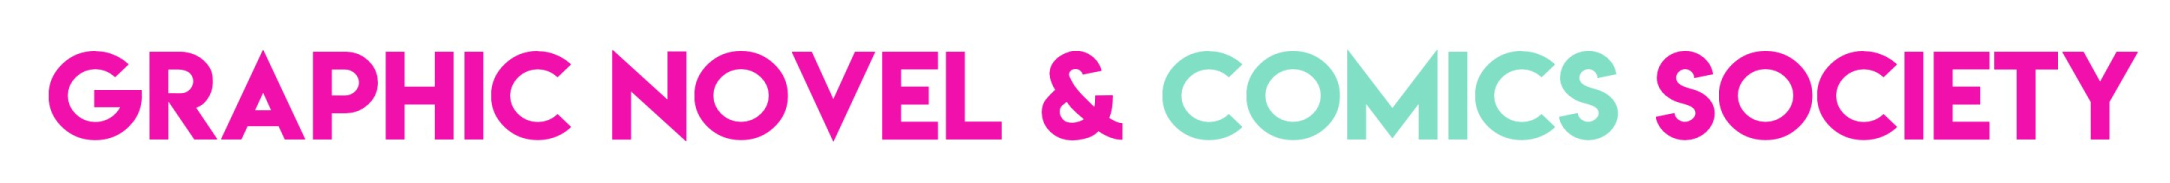
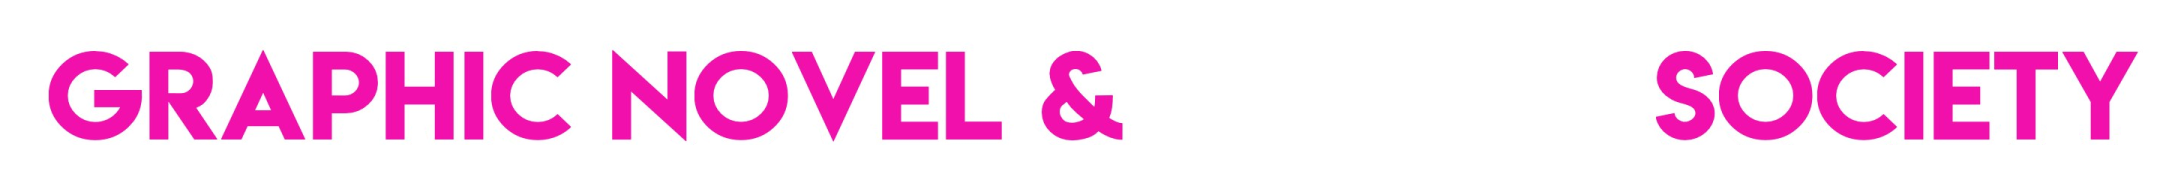
deleted unnecessary files and cleaned up text

Changed region(s): [[0.5249, 0.2732, 0.7719, 0.765]]

diff --git a/index.html b/index.html
@@ -3,12 +3,11 @@
 <head>
     <meta charset="UTF-8">
     <meta charset="UTF-8">
-    <title>UCL Graphic Novels and Comics Society</title>
+    <title><a href="index.html">UCL Graphic Novels and Comics Society</a></title>
     <link href="style.css" media="all" rel="stylesheet" type="text/css">
 <body>
-    <!--<div style="position: relative; height: 150px"></div>-->
 
-<div class="header" style="text-align: center"><img style="position:center" src="assets/img/title_version2.png" width="870"></div>
+<div class="header" style="text-align: center"><img style="position:center" src="assets/img/title.png" width="870"></div>
 
 <!-- ========== Navigation ========== -->
 <div class="navbar" style="text-align: center"> <!-- Want to change the css to header and the navbar to navbar -->
@@ -16,13 +15,16 @@
 <ul style="text-align: center">
     <li><a href="" class="active">Home</a></li>
     <li><a href="">Committee</a></li>
-    <li><a href="">About us</a></li>
+    <li><a href="">Activity fills</a></li>
+    <li><a href="">Zine</a></li>
+    <li><a href="">Contact us</a></li>
+    <!--
     <li><a href="https://forms.gle/DXxErhf7Y9FboMxu5">Mailing List</a></li>
     <li><a href="https://discord.gg/tYPVhMv">Discord</a></li>
     <li><a href="https://www.facebook.com/uclgncs">Facebook</a></li>
     <li><a href="https://www.instagram.com/uclgncs/">Instagram</a></li>
     <li><a href="mailto:su.graphicnovelscomics@ucl.ac.uk">Mail us</a></li>
-    <li><a href="https://studentsunionucl.org/clubs-societies/graphic-novels-and-comics-society">Join us!</a></li>
+    <li><a href="https://studentsunionucl.org/clubs-societies/graphic-novels-and-comics-society">Join us!</a></li> -->
 
 </ul>
 </div>
@@ -36,17 +38,12 @@
             <div>
                 <img height="70" src="assets/img/hi.png" style="float:left; padding:2%">
                 <br>
-                <p>Welcome to the UCL GNCS website! Please use the
-                    links on the left to access our different platforms, contact us or even check out zines and projects
-                    from previous years. Feel free to have a look around and don't hesitate to message us if you have
-                    any questions :)</p>
+                <p>Welcome to the UCL GNCS website! Feel free to have a look around and don't hesitate to message us if you have any questions. 
                     <br>
-                <p>
-                    We want to get to know you! Fill in this starter activity (full-size image can be found on the
-                    sidebar links) and submit it to us on facebook, discord or via e-mail! Scroll down for some examples
-                    :) We are looking forward to meeting our new members and getting started with some fun online group
-                    sessions as soon as possible!</p>
-                <p>- Louisa, Katie and Inés</P>
+                    <br>
+                    This website is currently in development, but stay tuned!
+                </p>
+                <p style="float: right;">- Morgane, Supravo and Nicole</P>
             </div>
         </div>
     </div>

diff --git a/style.css b/style.css
@@ -3,7 +3,7 @@
 body {
     font-family: 'Josefin Sans', sans-serif;
     background-color: black;
-    background-image: url("./assets/img/darkhorse_bg.png");
+    background-image: url("./assets/img/bg.png");
     background-attachment: fixed;
     background-position: center;
     background-repeat: no-repeat;
